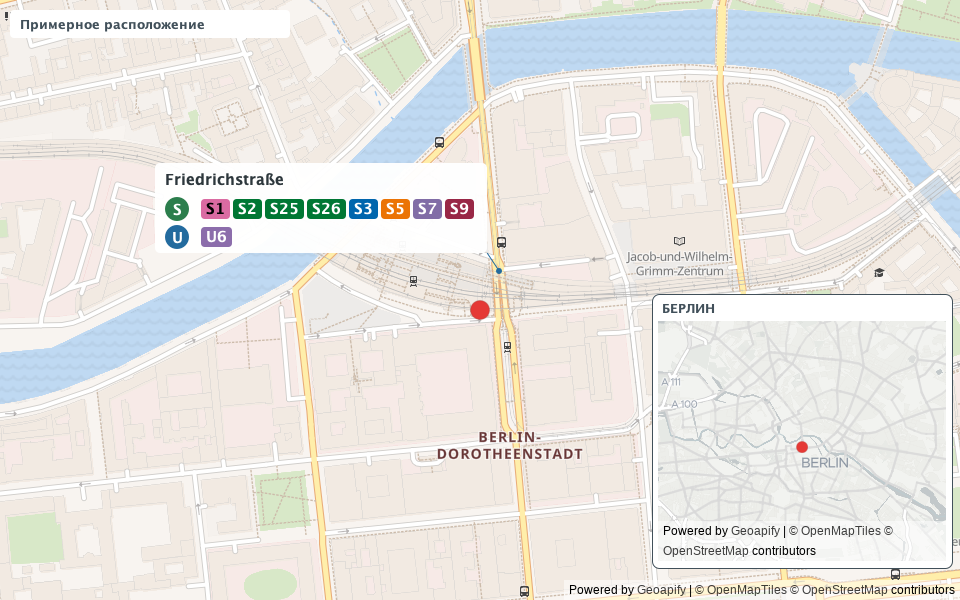
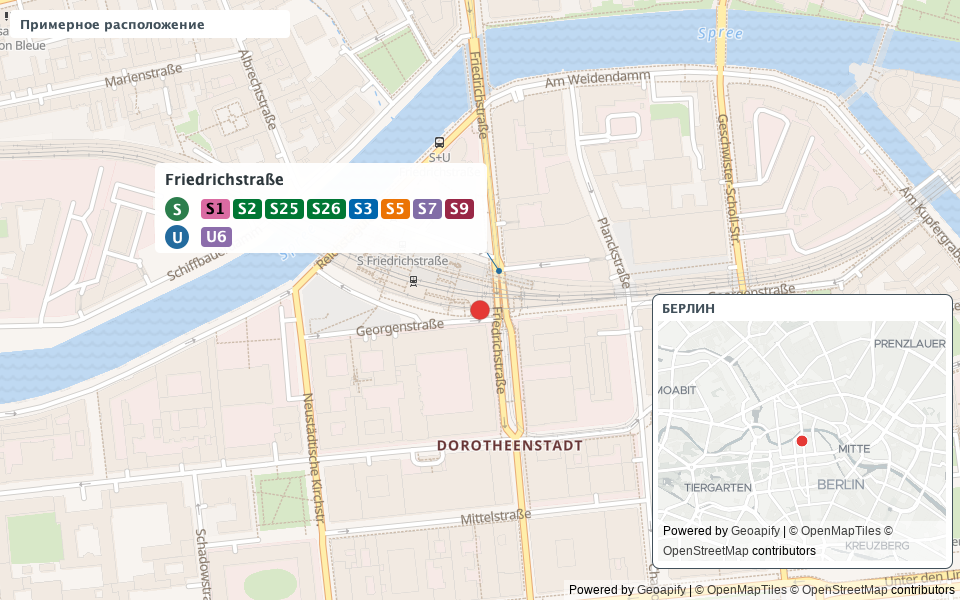
Show district names in map overview and refresh previews

diff --git a/src/test/kotlin/com/aksumar/telegram/maps/ListingMapsTest.kt b/src/test/kotlin/com/aksumar/telegram/maps/ListingMapsTest.kt
@@ -133,6 +133,7 @@ class ListingMapsTest {
             assertFalse(p.requests[1].second.getValue("styleCustomization").contains("poi-level-1"))
             assertFalse(p.requests[1].second.getValue("styleCustomization").contains("poi-railway"))
             assertFalse(p.requests[1].second.getValue("styleCustomization").contains("airport"))
+            assertFalse(p.requests[1].second.getValue("styleCustomization").contains("place-other:none"))
             assertTrue(p.requests[1].second.getValue("marker").contains("size:36;icon:home"))
             assertFalse(p.requests[2].second.containsKey("marker"))
             assertEquals(
@@ -141,7 +142,8 @@ class ListingMapsTest {
             )
             assertEquals("288", p.requests[2].second["width"])
             assertEquals("240", p.requests[2].second["height"])
-            assertEquals("10", p.requests[2].second["zoom"])
+            assertEquals("11", p.requests[2].second["zoom"])
+            assertEquals("place_suburb:#4b5563;11|place_other:#4b5563;10", p.requests[2].second["styleCustomization"])
             assertEquals("lonlat:13.38,52.53", p.requests[2].second["center"])
             assertEquals(event().address.full, p.requests[0].second["text"])
             assertEquals("rect:13.08,52.33,13.77,52.68", p.requests[0].second["filter"])

diff --git a/src/test/kotlin/com/aksumar/telegram/maps/MapExamples.kt b/src/test/kotlin/com/aksumar/telegram/maps/MapExamples.kt
@@ -26,9 +26,9 @@ class MapExamples {
         val maps = GeoapifyStaticMaps(client, "https://maps.geoapify.com/v1/staticmap")
         val location = GeocodedLocation(13.388, 52.52, approximate = false, detailZoom = 15.5)
         val deadline = System.nanoTime() + Duration.ofMinutes(2).toNanos()
-        val detail = cachedImage("detail-exact.png") { maps.detail(location, deadline) }
-        val approximate = cachedImage("detail-approximate.png") { maps.detail(location.copy(approximate = true), deadline) }
-        val overview = cachedImage("overview-zoom10.png") { requireNotNull(maps.overviewOrNull(location, deadline)) }
+        val detail = cachedImage("detail-exact-local-names.png") { maps.detail(location, deadline) }
+        val approximate = cachedImage("detail-approximate-local-names.png") { maps.detail(location.copy(approximate = true), deadline) }
+        val overview = cachedImage("overview-districts.png") { requireNotNull(maps.overviewOrNull(location, deadline)) }
         val stations = cachedStations(client, location, deadline)
         val scenarios = listOf(
             Example("01-normal", "Обычная карта", "Реальные станции из Geoapify возле условной точки в центре Берлина.", stations),

diff --git a/src/main/kotlin/com/aksumar/telegram/maps/GeoapifyStaticMaps.kt b/src/main/kotlin/com/aksumar/telegram/maps/GeoapifyStaticMaps.kt
@@ -26,7 +26,9 @@ internal class GeoapifyStaticMaps(private val client: GeoapifyClient, private va
                     "style" to "positron",
                     "width" to MapLayout.OVERVIEW_WIDTH.toString(),
                     "height" to MapLayout.OVERVIEW_HEIGHT.toString(),
-                    "zoom" to "10",
+                    // At zoom 11 the provider includes nearby district names in the overview.
+                    "zoom" to "11",
+                    "styleCustomization" to "place_suburb:#4b5563;11|place_other:#4b5563;10",
                     // Circle markers are offset vertically by the provider; geometry is centred on the coordinates.
                     "geometry" to "circle:${location.longitude},${location.latitude},6;fillcolor:#e53935;fillopacity:1;linecolor:#ffffff;linewidth:1",
                 ),

diff --git a/docs/maps.md b/docs/maps.md
@@ -48,7 +48,7 @@ Routing API не вызывается. Одна готовая картинка 
 | --- | --- | --- |
 | Стиль | `osm-bright` | `positron` |
 | Размер | `960 × 600` | `288 × 240` |
-| Масштаб | `15.5` для здания/улицы, иначе `12.5` | `10` |
+| Масштаб | `15.5` для здания/улицы, иначе `12.5` | `11` |
 | Центр | Координаты адреса | Координаты адреса |
 | Метка | Красный дом для точного адреса, круг для приблизительного | Маленькая красная точка |
 
@@ -59,6 +59,12 @@ Routing API не вызывается. Одна готовая картинка 
 на текущем масштабе часть улиц может быть без названий.
 
 Основная карта скрывает только `poi-level-2` и `poi-level-3`.
+Слой названий районов `place-other` остаётся включённым. На крупном плане
+точка подписи района может находиться за кадром, даже если квартира в этом районе.
+Обзор использует масштаб `11` и более контрастные подписи `place_suburb` и `place_other`:
+в проверенном кадре возле Spichernstraße Geoapify показывает Wilmersdorf, Schöneberg
+и соседние районы. Названия и их размещение берутся только из подложки провайдера;
+наличие подписи каждого квартала, например Bayerisches Viertel, не гарантируется.
 Приоритетные объекты `poi-level-1`, железнодорожные станции и аэропорты остаются
 частью изображения провайдера. Их видимость зависит от масштаба и размещения подписей.
 Уровень POI обозначает приоритет, а не гарантированный размер объекта или категорию.

diff --git a/README.md b/README.md
@@ -229,6 +229,8 @@ java -jar build/libs/app.jar
 если карточки не помещаются, изображение увеличивается вниз для нумерованной легенды.
 
 На подложке Geoapify остаются приоритетные объекты `poi-level-1`, вокзалы и аэропорты.
+Районы подписывает сама Geoapify: обзор приближен до масштаба `11`, чтобы показывать
+соседние районы. Конкретные названия зависят от данных провайдера и попадания в кадр.
 Уровни `poi-level-2` и `poi-level-3` скрыты. Карточки S/U с цветными линиями рисуются
 приложением; каждая группа линий S и U занимает свою строку.
 Неточный адрес помечается как «Примерное расположение».
